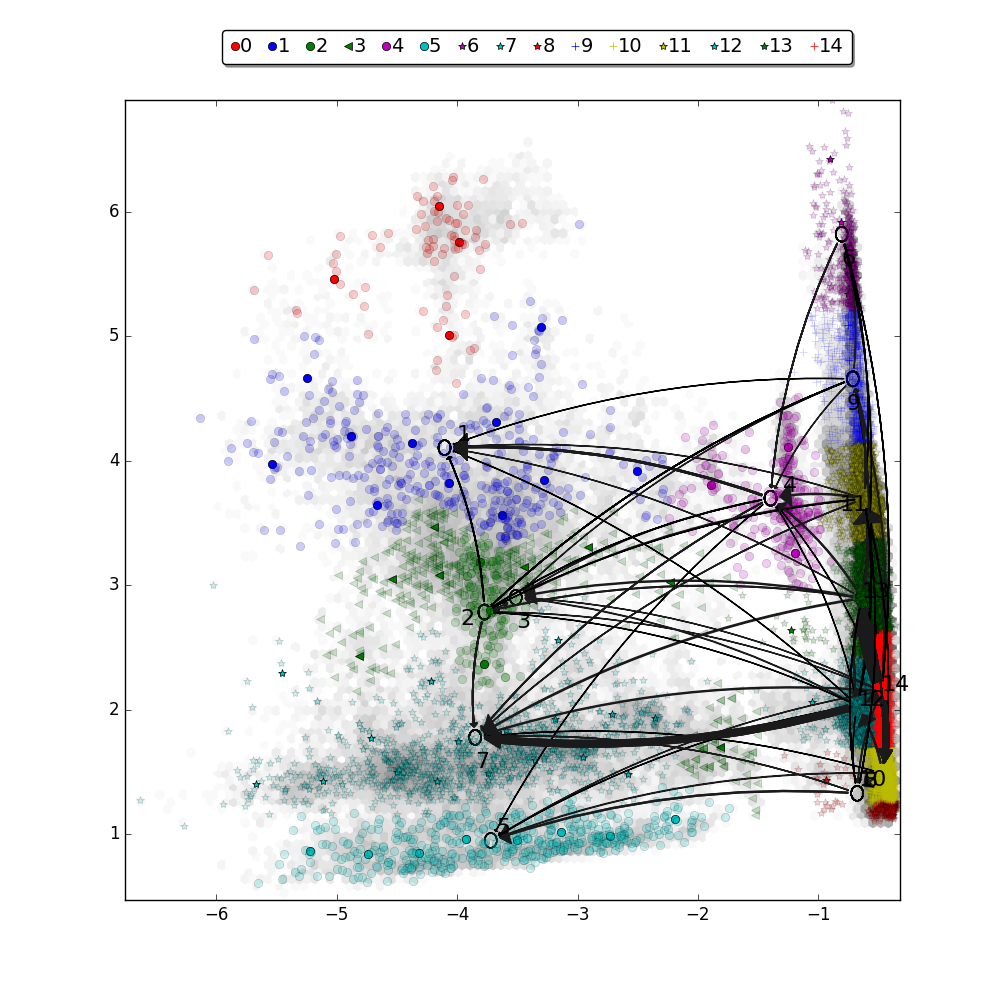
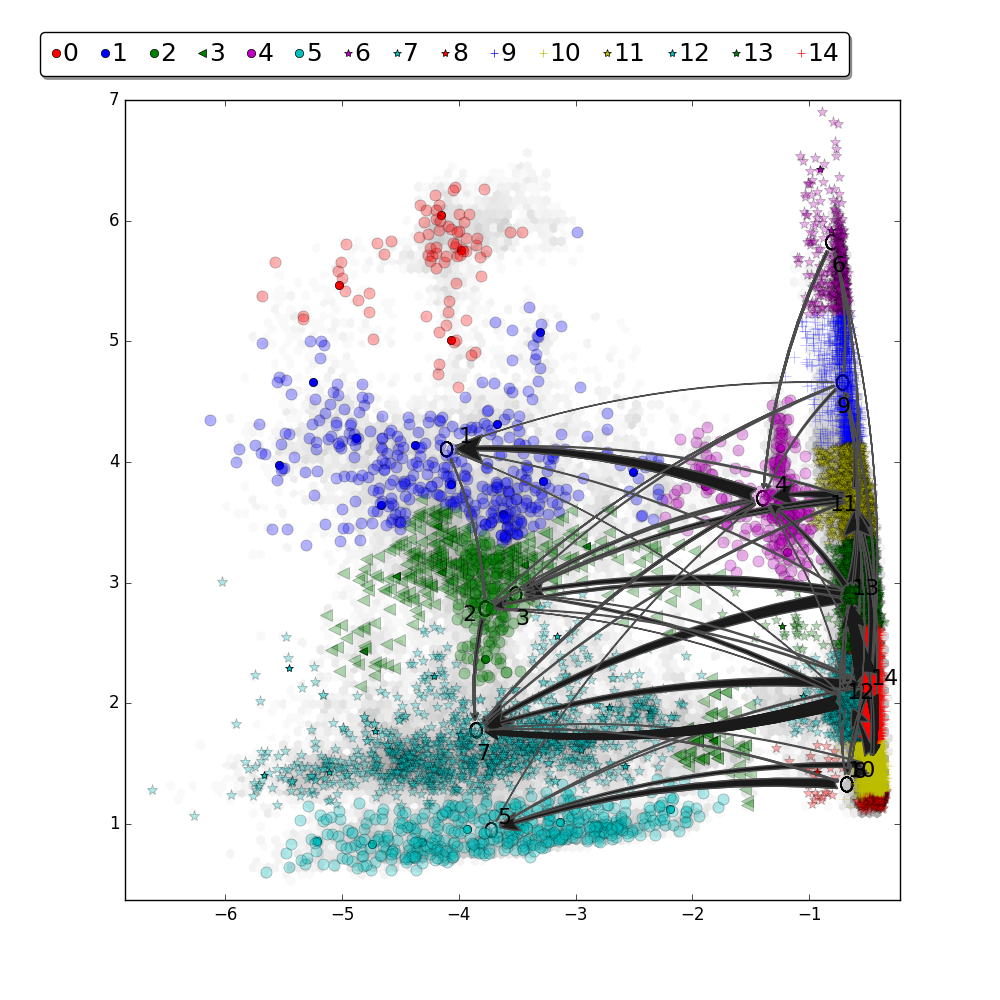
all

diff --git a/hDAT_Na_SREP/msm/15macros/plot_tpt.py b/hDAT_Na_SREP/msm/15macros/plot_tpt.py
@@ -90,7 +90,8 @@ ax = fig.add_subplot(111)
 # first plot tICA landscape and macrostates
 plot_macros(n_macro,map15,macro_assigns,gens,ev0,ev1,on_tica)
 
-n_paths = 7
+# all pathways
+n_paths = -1
 for path in paths[0][0:n_paths]:
     for i in range(len(path)-1):
         c1 = circls[path[i]]
@@ -100,9 +101,9 @@ for path in paths[0][0:n_paths]:
         ax.add_patch(cir1)
         ax.add_patch(cir2)
 	# editing arrow properties from some of the pathways for better viualization
-        if fluxes[path[i]][path[i+1]] < 1 : arowprops = dict(arrowstyle="fancy,head_length=2,head_width=2,tail_width=1", fc="k", ec="w", connectionstyle="arc3,rad=0.1",patchA=cir1,patchB=cir2)
-        elif 1 < fluxes[path[i]][path[i+1]] < 10 : arowprops = dict(arrowstyle="fancy,head_length=2,head_width=2,tail_width=1", fc="0.1", ec="w", connectionstyle="arc3,rad=0.1",patchA=cir1,patchB=cir2)
-        else: arowprops = dict(arrowstyle="fancy", fc="0.1", ec="w", connectionstyle="arc3,rad=-0.1",patchA=cir1,patchB=cir2)
+        if fluxes[path[i]][path[i+1]] < 1 : arowprops = dict(arrowstyle="fancy,head_length=2,head_width=2,tail_width=1", fc="k", ec="0.3", connectionstyle="arc3,rad=0.1",patchA=cir1,patchB=cir2)
+        elif 1 < fluxes[path[i]][path[i+1]] < 10 : arowprops = dict(arrowstyle="fancy,head_length=2,head_width=2,tail_width=1", fc="0.1", ec="0.3", connectionstyle="arc3,rad=0.1",patchA=cir1,patchB=cir2)
+        else: arowprops = dict(arrowstyle="fancy", fc="0.1", ec="0.1", connectionstyle="arc3,rad=-0.1",patchA=cir1,patchB=cir2)
         ax.annotate('', xy=(xs[path[i+1]], ys[path[i+1]]), xytext=(xs[path[i]], ys[path[i]]),
                         size=fluxes[path[i]][path[i+1]], textcoords='data',xycoords = 'data', arrowprops=arowprops)
 # --------------------------------------------------------------------------------
